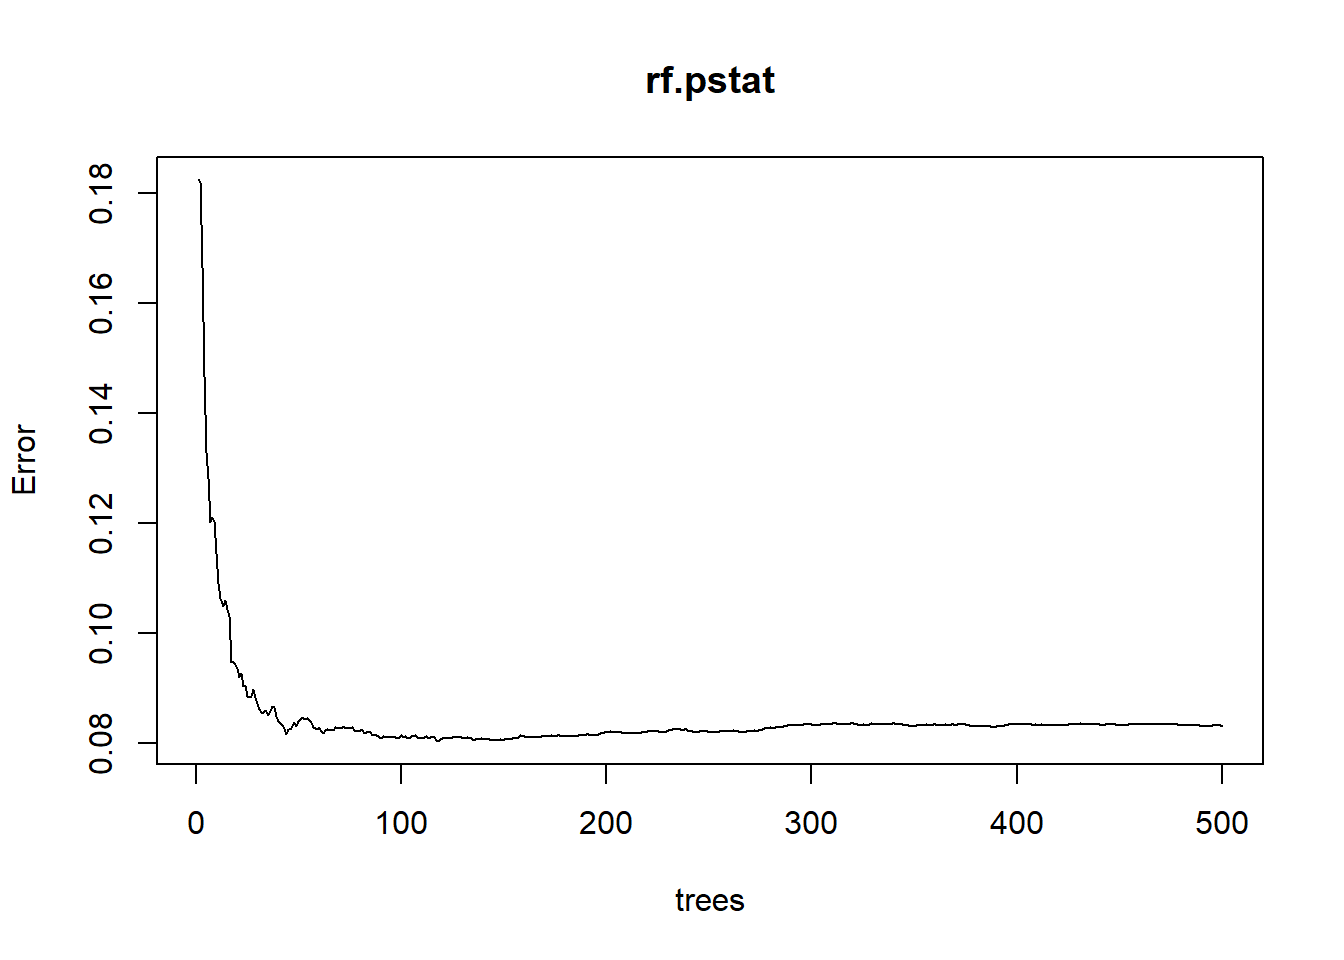
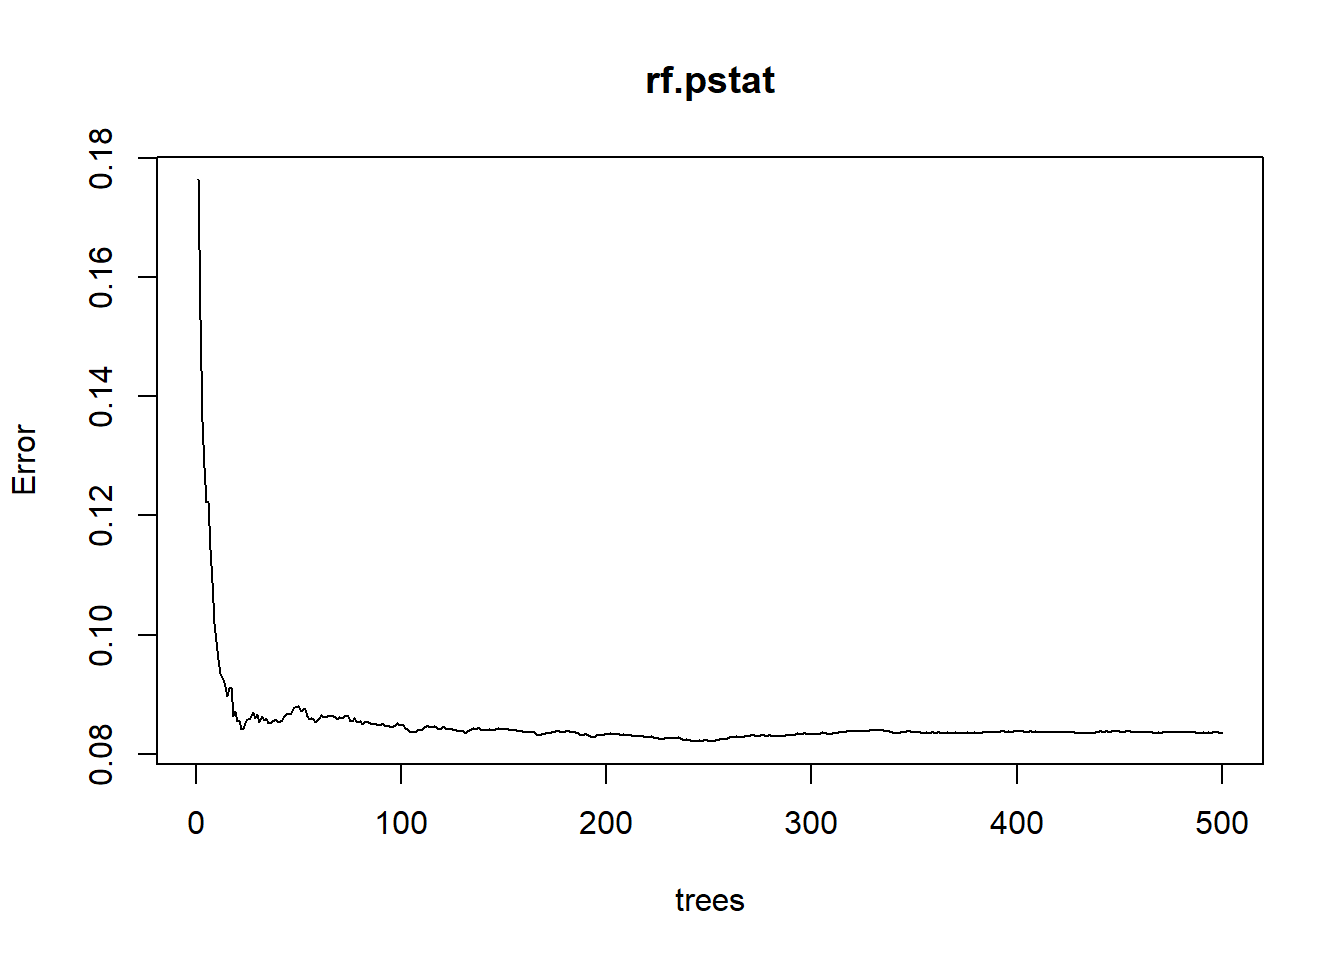
fixed ntree

diff --git a/vignette-bootstrapping.html b/vignette-bootstrapping.html
@@ -198,18 +198,19 @@ pre > code.sourceCode > span > a:first-child::before { text-decoration: underlin
 <span id="cb10-4"><a href="#cb10-4" aria-hidden="true" tabindex="-1"></a>bag.pstat <span class="ot">&lt;-</span> <span class="fu">randomForest</span>(avgGPA <span class="sc">~</span> course <span class="sc">+</span> instructor <span class="sc">+</span> quarter <span class="sc">+</span> year <span class="sc">+</span></span>
 <span id="cb10-5"><a href="#cb10-5" aria-hidden="true" tabindex="-1"></a>                            nLetterStudents,</span>
 <span id="cb10-6"><a href="#cb10-6" aria-hidden="true" tabindex="-1"></a>                          <span class="at">data =</span> train,</span>
-<span id="cb10-7"><a href="#cb10-7" aria-hidden="true" tabindex="-1"></a>                          <span class="at">mtry=</span><span class="dv">5</span>, <span class="at">importance=</span><span class="cn">TRUE</span>, <span class="at">na.action =</span> na.omit)</span>
-<span id="cb10-8"><a href="#cb10-8" aria-hidden="true" tabindex="-1"></a>bag.pstat</span></code><button title="Copy to Clipboard" class="code-copy-button"><i class="bi"></i></button></pre></div>
+<span id="cb10-7"><a href="#cb10-7" aria-hidden="true" tabindex="-1"></a>                          <span class="at">ntree =</span> <span class="dv">1000</span>,</span>
+<span id="cb10-8"><a href="#cb10-8" aria-hidden="true" tabindex="-1"></a>                          <span class="at">mtry=</span><span class="dv">5</span>, <span class="at">importance=</span><span class="cn">TRUE</span>, <span class="at">na.action =</span> na.omit)</span>
+<span id="cb10-9"><a href="#cb10-9" aria-hidden="true" tabindex="-1"></a>bag.pstat</span></code><button title="Copy to Clipboard" class="code-copy-button"><i class="bi"></i></button></pre></div>
 <div class="cell-output cell-output-stdout">
 <pre><code>
 Call:
- randomForest(formula = avgGPA ~ course + instructor + quarter +      year + nLetterStudents, data = train, mtry = 5, importance = TRUE,      na.action = na.omit) 
+ randomForest(formula = avgGPA ~ course + instructor + quarter +      year + nLetterStudents, data = train, ntree = 1000, mtry = 5,      importance = TRUE, na.action = na.omit) 
                Type of random forest: regression
-                     Number of trees: 500
+                     Number of trees: 1000
 No. of variables tried at each split: 5
 
-          Mean of squared residuals: 0.08409803
-                    % Var explained: 70.62</code></pre>
+          Mean of squared residuals: 0.08394924
+                    % Var explained: 70.67</code></pre>
 </div>
 </div>
 <p>Plot the errors achieved.</p>
@@ -233,30 +234,25 @@ No. of variables tried at each split: 5
 <span id="cb13-5"><a href="#cb13-5" aria-hidden="true" tabindex="-1"></a>test.bag.err <span class="ot">&lt;-</span> <span class="fu">mean</span>((test<span class="sc">$</span>avgGPA<span class="sc">-</span> yhat.bag)<span class="sc">^</span><span class="dv">2</span>)</span>
 <span id="cb13-6"><a href="#cb13-6" aria-hidden="true" tabindex="-1"></a>test.bag.err</span></code><button title="Copy to Clipboard" class="code-copy-button"><i class="bi"></i></button></pre></div>
 <div class="cell-output cell-output-stdout">
-<pre><code>[1] 0.1509249</code></pre>
+<pre><code>[1] 0.1491549</code></pre>
 </div>
 </div>
+<p>Try increasing the <code>ntree</code> parameter to 10,000 (i.e.&nbsp;the number of bootstrap samples).</p>
 <div class="cell">
-<div class="sourceCode cell-code" id="cb15"><pre class="sourceCode r code-with-copy"><code class="sourceCode r"><span id="cb15-1"><a href="#cb15-1" aria-hidden="true" tabindex="-1"></a><span class="co"># probability predictions on testing split</span></span>
-<span id="cb15-2"><a href="#cb15-2" aria-hidden="true" tabindex="-1"></a>prob.bag <span class="ot">&lt;-</span> <span class="fu">predict</span>(bag.carseats, <span class="at">newdata =</span> test.carseats, <span class="at">type =</span> <span class="st">"prob"</span>)</span>
-<span id="cb15-3"><a href="#cb15-3" aria-hidden="true" tabindex="-1"></a><span class="fu">head</span>(prob.bag)</span></code><button title="Copy to Clipboard" class="code-copy-button"><i class="bi"></i></button></pre></div>
-</div>
-<p>Try increasing the <code>ntree</code> parameter.</p>
-<div class="cell">
-<div class="sourceCode cell-code" id="cb16"><pre class="sourceCode r code-with-copy"><code class="sourceCode r"><span id="cb16-1"><a href="#cb16-1" aria-hidden="true" tabindex="-1"></a><span class="co"># increase ntree</span></span>
-<span id="cb16-2"><a href="#cb16-2" aria-hidden="true" tabindex="-1"></a>bag.pstat2 <span class="ot">&lt;-</span> <span class="fu">randomForest</span>(avgGPA <span class="sc">~</span> .,</span>
-<span id="cb16-3"><a href="#cb16-3" aria-hidden="true" tabindex="-1"></a>                            <span class="at">data=</span>train,</span>
-<span id="cb16-4"><a href="#cb16-4" aria-hidden="true" tabindex="-1"></a>                            <span class="at">mtry=</span><span class="dv">5</span>, <span class="at">ntree=</span><span class="dv">700</span>, <span class="at">importance=</span><span class="cn">TRUE</span>)</span>
-<span id="cb16-5"><a href="#cb16-5" aria-hidden="true" tabindex="-1"></a></span>
-<span id="cb16-6"><a href="#cb16-6" aria-hidden="true" tabindex="-1"></a><span class="co"># retrieve test set MSE</span></span>
-<span id="cb16-7"><a href="#cb16-7" aria-hidden="true" tabindex="-1"></a>yhat.bag2 <span class="ot">&lt;-</span> <span class="fu">predict</span>(bag.pstat2, <span class="at">newdata =</span> test)</span>
-<span id="cb16-8"><a href="#cb16-8" aria-hidden="true" tabindex="-1"></a>test.bag.err2 <span class="ot">&lt;-</span> <span class="fu">mean</span>((test<span class="sc">$</span>avgGPA<span class="sc">-</span>yhat.bag)<span class="sc">^</span><span class="dv">2</span>)</span>
-<span id="cb16-9"><a href="#cb16-9" aria-hidden="true" tabindex="-1"></a>test.bag.err2</span></code><button title="Copy to Clipboard" class="code-copy-button"><i class="bi"></i></button></pre></div>
+<div class="sourceCode cell-code" id="cb15"><pre class="sourceCode r code-with-copy"><code class="sourceCode r"><span id="cb15-1"><a href="#cb15-1" aria-hidden="true" tabindex="-1"></a><span class="co"># increase ntree</span></span>
+<span id="cb15-2"><a href="#cb15-2" aria-hidden="true" tabindex="-1"></a>bag.pstat2 <span class="ot">&lt;-</span> <span class="fu">randomForest</span>(avgGPA <span class="sc">~</span> .,</span>
+<span id="cb15-3"><a href="#cb15-3" aria-hidden="true" tabindex="-1"></a>                            <span class="at">data=</span>train,</span>
+<span id="cb15-4"><a href="#cb15-4" aria-hidden="true" tabindex="-1"></a>                            <span class="at">mtry=</span><span class="dv">5</span>, <span class="at">ntree=</span><span class="dv">10000</span>, <span class="at">importance=</span><span class="cn">TRUE</span>)</span>
+<span id="cb15-5"><a href="#cb15-5" aria-hidden="true" tabindex="-1"></a></span>
+<span id="cb15-6"><a href="#cb15-6" aria-hidden="true" tabindex="-1"></a><span class="co"># retrieve test set MSE</span></span>
+<span id="cb15-7"><a href="#cb15-7" aria-hidden="true" tabindex="-1"></a>yhat.bag2 <span class="ot">&lt;-</span> <span class="fu">predict</span>(bag.pstat2, <span class="at">newdata =</span> test)</span>
+<span id="cb15-8"><a href="#cb15-8" aria-hidden="true" tabindex="-1"></a>test.bag.err2 <span class="ot">&lt;-</span> <span class="fu">mean</span>((test<span class="sc">$</span>avgGPA<span class="sc">-</span>yhat.bag)<span class="sc">^</span><span class="dv">2</span>)</span>
+<span id="cb15-9"><a href="#cb15-9" aria-hidden="true" tabindex="-1"></a>test.bag.err2</span></code><button title="Copy to Clipboard" class="code-copy-button"><i class="bi"></i></button></pre></div>
 <div class="cell-output cell-output-stdout">
-<pre><code>[1] 0.1509249</code></pre>
+<pre><code>[1] 0.1491549</code></pre>
 </div>
 </div>
-<p><strong>Does the number of trees affect the test set error performance of bagged random forest model? Why or why not?</strong></p>
+<p><strong>Does the number of decision trees affect the test set prediction performance of a bagged random forest model?</strong></p>
 </section>
 </section>
 <section id="unbagged-random-forest" class="level2">
@@ -267,58 +263,60 @@ No. of variables tried at each split: 5
 <p>If we want a random forest model with no bagging, then we have to use <span class="math inline">\(m&lt;p\)</span>. Let’s set <span class="math inline">\(m=3\)</span>.</p>
 <p>Setting <span class="math inline">\(m&lt;p\)</span> allows the random forest to create uncorrelated trees. Typically, this is what is preferred.</p>
 <div class="cell">
-<div class="sourceCode cell-code" id="cb18"><pre class="sourceCode r code-with-copy"><code class="sourceCode r"><span id="cb18-1"><a href="#cb18-1" aria-hidden="true" tabindex="-1"></a><span class="co"># build a random forest model for classification problem</span></span>
-<span id="cb18-2"><a href="#cb18-2" aria-hidden="true" tabindex="-1"></a><span class="co"># use a m smaller than 5</span></span>
-<span id="cb18-3"><a href="#cb18-3" aria-hidden="true" tabindex="-1"></a><span class="co"># mtry = 3</span></span>
-<span id="cb18-4"><a href="#cb18-4" aria-hidden="true" tabindex="-1"></a>rf.pstat <span class="ot">=</span> <span class="fu">randomForest</span>(avgGPA <span class="sc">~</span> ., <span class="at">data=</span>train,</span>
-<span id="cb18-5"><a href="#cb18-5" aria-hidden="true" tabindex="-1"></a>                           <span class="at">mtry=</span><span class="dv">3</span>, <span class="at">importance=</span><span class="cn">TRUE</span>)</span>
-<span id="cb18-6"><a href="#cb18-6" aria-hidden="true" tabindex="-1"></a>rf.pstat</span></code><button title="Copy to Clipboard" class="code-copy-button"><i class="bi"></i></button></pre></div>
+<div class="sourceCode cell-code" id="cb17"><pre class="sourceCode r code-with-copy"><code class="sourceCode r"><span id="cb17-1"><a href="#cb17-1" aria-hidden="true" tabindex="-1"></a><span class="co"># build a random forest model for classification problem</span></span>
+<span id="cb17-2"><a href="#cb17-2" aria-hidden="true" tabindex="-1"></a><span class="co"># use a m smaller than 5</span></span>
+<span id="cb17-3"><a href="#cb17-3" aria-hidden="true" tabindex="-1"></a><span class="co"># mtry = 3</span></span>
+<span id="cb17-4"><a href="#cb17-4" aria-hidden="true" tabindex="-1"></a>rf.pstat <span class="ot">=</span> <span class="fu">randomForest</span>(avgGPA <span class="sc">~</span> ., <span class="at">data=</span>train,</span>
+<span id="cb17-5"><a href="#cb17-5" aria-hidden="true" tabindex="-1"></a>                        <span class="at">mtry=</span><span class="dv">3</span>, </span>
+<span id="cb17-6"><a href="#cb17-6" aria-hidden="true" tabindex="-1"></a>                        <span class="at">ntree =</span> <span class="dv">10000</span>,</span>
+<span id="cb17-7"><a href="#cb17-7" aria-hidden="true" tabindex="-1"></a>                        <span class="at">importance=</span><span class="cn">TRUE</span>)</span>
+<span id="cb17-8"><a href="#cb17-8" aria-hidden="true" tabindex="-1"></a>rf.pstat</span></code><button title="Copy to Clipboard" class="code-copy-button"><i class="bi"></i></button></pre></div>
 <div class="cell-output cell-output-stdout">
 <pre><code>
 Call:
- randomForest(formula = avgGPA ~ ., data = train, mtry = 3, importance = TRUE) 
+ randomForest(formula = avgGPA ~ ., data = train, mtry = 3, ntree = 10000,      importance = TRUE) 
                Type of random forest: regression
-                     Number of trees: 500
+                     Number of trees: 10000
 No. of variables tried at each split: 3
 
-          Mean of squared residuals: 0.08317912
-                    % Var explained: 70.94</code></pre>
+          Mean of squared residuals: 0.08360248
+                    % Var explained: 70.79</code></pre>
 </div>
 </div>
 <div class="cell">
-<div class="sourceCode cell-code" id="cb20"><pre class="sourceCode r code-with-copy"><code class="sourceCode r"><span id="cb20-1"><a href="#cb20-1" aria-hidden="true" tabindex="-1"></a><span class="fu">plot</span>(rf.pstat)</span></code><button title="Copy to Clipboard" class="code-copy-button"><i class="bi"></i></button></pre></div>
+<div class="sourceCode cell-code" id="cb19"><pre class="sourceCode r code-with-copy"><code class="sourceCode r"><span id="cb19-1"><a href="#cb19-1" aria-hidden="true" tabindex="-1"></a><span class="fu">plot</span>(rf.pstat)</span></code><button title="Copy to Clipboard" class="code-copy-button"><i class="bi"></i></button></pre></div>
 <div class="cell-output-display">
-<p><img src="vignette-bootstrapping_files/figure-html/unnamed-chunk-10-1.png" class="img-fluid" width="672"></p>
+<p><img src="vignette-bootstrapping_files/figure-html/unnamed-chunk-9-1.png" class="img-fluid" width="672"></p>
 </div>
 </div>
 </section>
 <section id="test-set-mse-comparison" class="level3">
 <h3 class="anchored" data-anchor-id="test-set-mse-comparison">Test Set MSE Comparison</h3>
 <div class="cell">
-<div class="sourceCode cell-code" id="cb21"><pre class="sourceCode r code-with-copy"><code class="sourceCode r"><span id="cb21-1"><a href="#cb21-1" aria-hidden="true" tabindex="-1"></a><span class="co"># obtain predictions on testing data</span></span>
-<span id="cb21-2"><a href="#cb21-2" aria-hidden="true" tabindex="-1"></a>yhat.rf <span class="ot">=</span> <span class="fu">predict</span>(rf.pstat, <span class="at">newdata =</span> test)</span>
-<span id="cb21-3"><a href="#cb21-3" aria-hidden="true" tabindex="-1"></a></span>
-<span id="cb21-4"><a href="#cb21-4" aria-hidden="true" tabindex="-1"></a><span class="co"># obtain MSE</span></span>
-<span id="cb21-5"><a href="#cb21-5" aria-hidden="true" tabindex="-1"></a>test.rf.err <span class="ot">=</span> <span class="fu">mean</span>((test<span class="sc">$</span>avgGPA <span class="sc">-</span> yhat.rf)<span class="sc">^</span><span class="dv">2</span>)</span></code><button title="Copy to Clipboard" class="code-copy-button"><i class="bi"></i></button></pre></div>
+<div class="sourceCode cell-code" id="cb20"><pre class="sourceCode r code-with-copy"><code class="sourceCode r"><span id="cb20-1"><a href="#cb20-1" aria-hidden="true" tabindex="-1"></a><span class="co"># obtain predictions on testing data</span></span>
+<span id="cb20-2"><a href="#cb20-2" aria-hidden="true" tabindex="-1"></a>yhat.rf <span class="ot">=</span> <span class="fu">predict</span>(rf.pstat, <span class="at">newdata =</span> test)</span>
+<span id="cb20-3"><a href="#cb20-3" aria-hidden="true" tabindex="-1"></a></span>
+<span id="cb20-4"><a href="#cb20-4" aria-hidden="true" tabindex="-1"></a><span class="co"># obtain MSE</span></span>
+<span id="cb20-5"><a href="#cb20-5" aria-hidden="true" tabindex="-1"></a>test.rf.err <span class="ot">=</span> <span class="fu">mean</span>((test<span class="sc">$</span>avgGPA <span class="sc">-</span> yhat.rf)<span class="sc">^</span><span class="dv">2</span>)</span></code><button title="Copy to Clipboard" class="code-copy-button"><i class="bi"></i></button></pre></div>
 </div>
 <div class="cell">
-<div class="sourceCode cell-code" id="cb22"><pre class="sourceCode r code-with-copy"><code class="sourceCode r"><span id="cb22-1"><a href="#cb22-1" aria-hidden="true" tabindex="-1"></a><span class="co"># compare normal random forest model error vs. bagged random forest error</span></span>
-<span id="cb22-2"><a href="#cb22-2" aria-hidden="true" tabindex="-1"></a>test.bag.err</span></code><button title="Copy to Clipboard" class="code-copy-button"><i class="bi"></i></button></pre></div>
+<div class="sourceCode cell-code" id="cb21"><pre class="sourceCode r code-with-copy"><code class="sourceCode r"><span id="cb21-1"><a href="#cb21-1" aria-hidden="true" tabindex="-1"></a><span class="co"># compare normal random forest model error vs. bagged random forest error</span></span>
+<span id="cb21-2"><a href="#cb21-2" aria-hidden="true" tabindex="-1"></a>test.bag.err</span></code><button title="Copy to Clipboard" class="code-copy-button"><i class="bi"></i></button></pre></div>
 <div class="cell-output cell-output-stdout">
-<pre><code>[1] 0.1509249</code></pre>
+<pre><code>[1] 0.1491549</code></pre>
 </div>
-<div class="sourceCode cell-code" id="cb24"><pre class="sourceCode r code-with-copy"><code class="sourceCode r"><span id="cb24-1"><a href="#cb24-1" aria-hidden="true" tabindex="-1"></a>test.rf.err</span></code><button title="Copy to Clipboard" class="code-copy-button"><i class="bi"></i></button></pre></div>
+<div class="sourceCode cell-code" id="cb23"><pre class="sourceCode r code-with-copy"><code class="sourceCode r"><span id="cb23-1"><a href="#cb23-1" aria-hidden="true" tabindex="-1"></a>test.rf.err</span></code><button title="Copy to Clipboard" class="code-copy-button"><i class="bi"></i></button></pre></div>
 <div class="cell-output cell-output-stdout">
-<pre><code>[1] 0.1725854</code></pre>
+<pre><code>[1] 0.1685372</code></pre>
 </div>
 </div>
-<p>Our random forest model achieved a test set MSE of .1509. Compare this value to the test set MSE of our model with bagging.</p>
-<p><strong>Does the random forest model provide any improvement over bootstrapping and bagging, in this case?</strong></p>
+<p>Compare the MSE values for bagging versus random forest models.</p>
+<p><strong>Does the random forest model provide any improvement over bagging, in this case?</strong></p>
 </section>
 </section>
 <section id="finishing-thoughts" class="level2">
 <h2 class="anchored" data-anchor-id="finishing-thoughts">Finishing Thoughts</h2>
-<p>In this case, the random forest model with bagging achieves a better prediction power. However, even if bagging achieves a lower MSE, we would wish to avoid correlation between trees (i.e.&nbsp;correlated predictions) which somewhat invalidates our results.</p>
+<p>In this case, the bagging model achieves a better prediction power. However, even if bagging achieves a lower MSE, we would wish to avoid correlation between trees (i.e.&nbsp;correlated predictions) which somewhat invalidates our results.</p>
 <p>Also, for a regression problem like this one, if we wanted to predict trends and create a more powerful predictive model, then we cannot use random forests. Random forests are unable to extrapolate and predict values outside of the trends present in the data given. <span class="math inline">\(^3\)</span></p>
 <p>One way of combating this may be to turn this into a classification problem. You may also consider other more regression-applicable models (regression-enhanced random forest (RERF), SVM regression, deep learning NN, etc.) if you wish to truly extrapolate predictions and discover trends outside of what is present in the data set. <span class="math inline">\(^3\)</span></p>
 </section>
